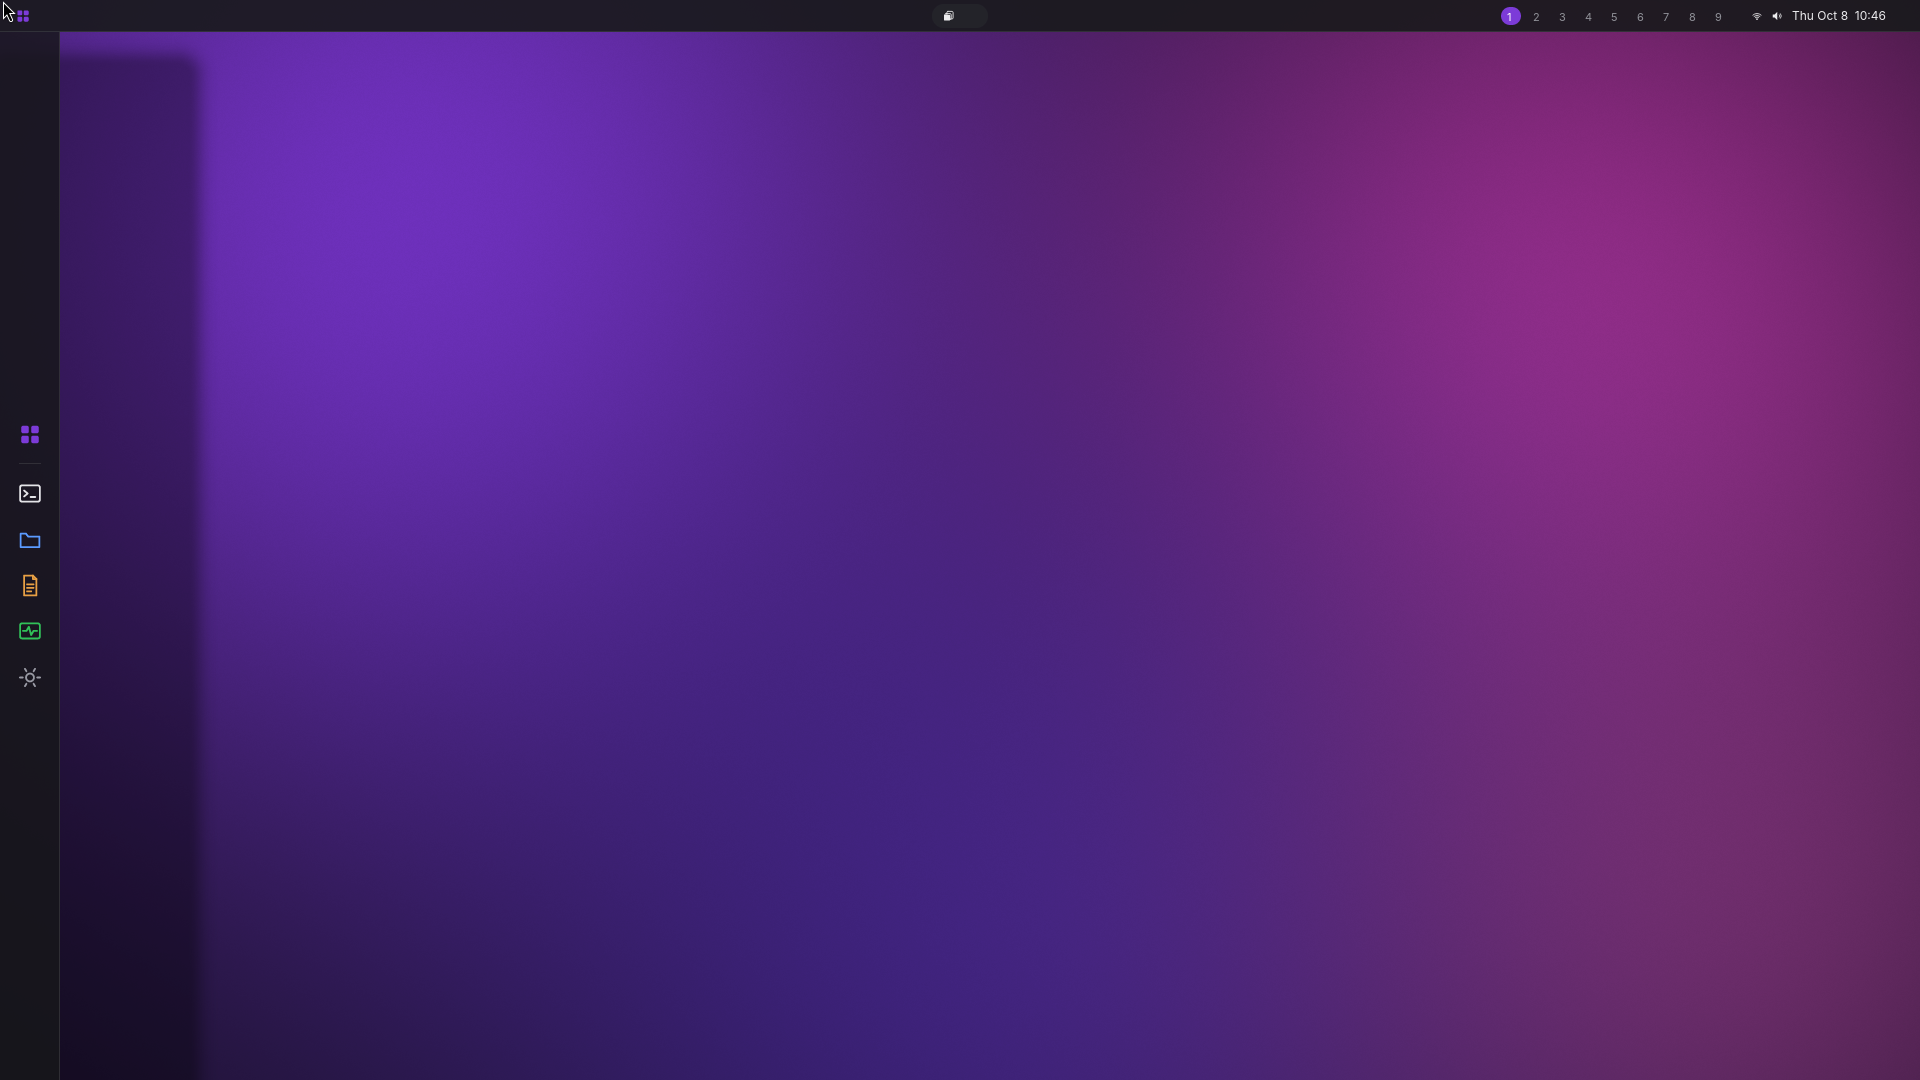
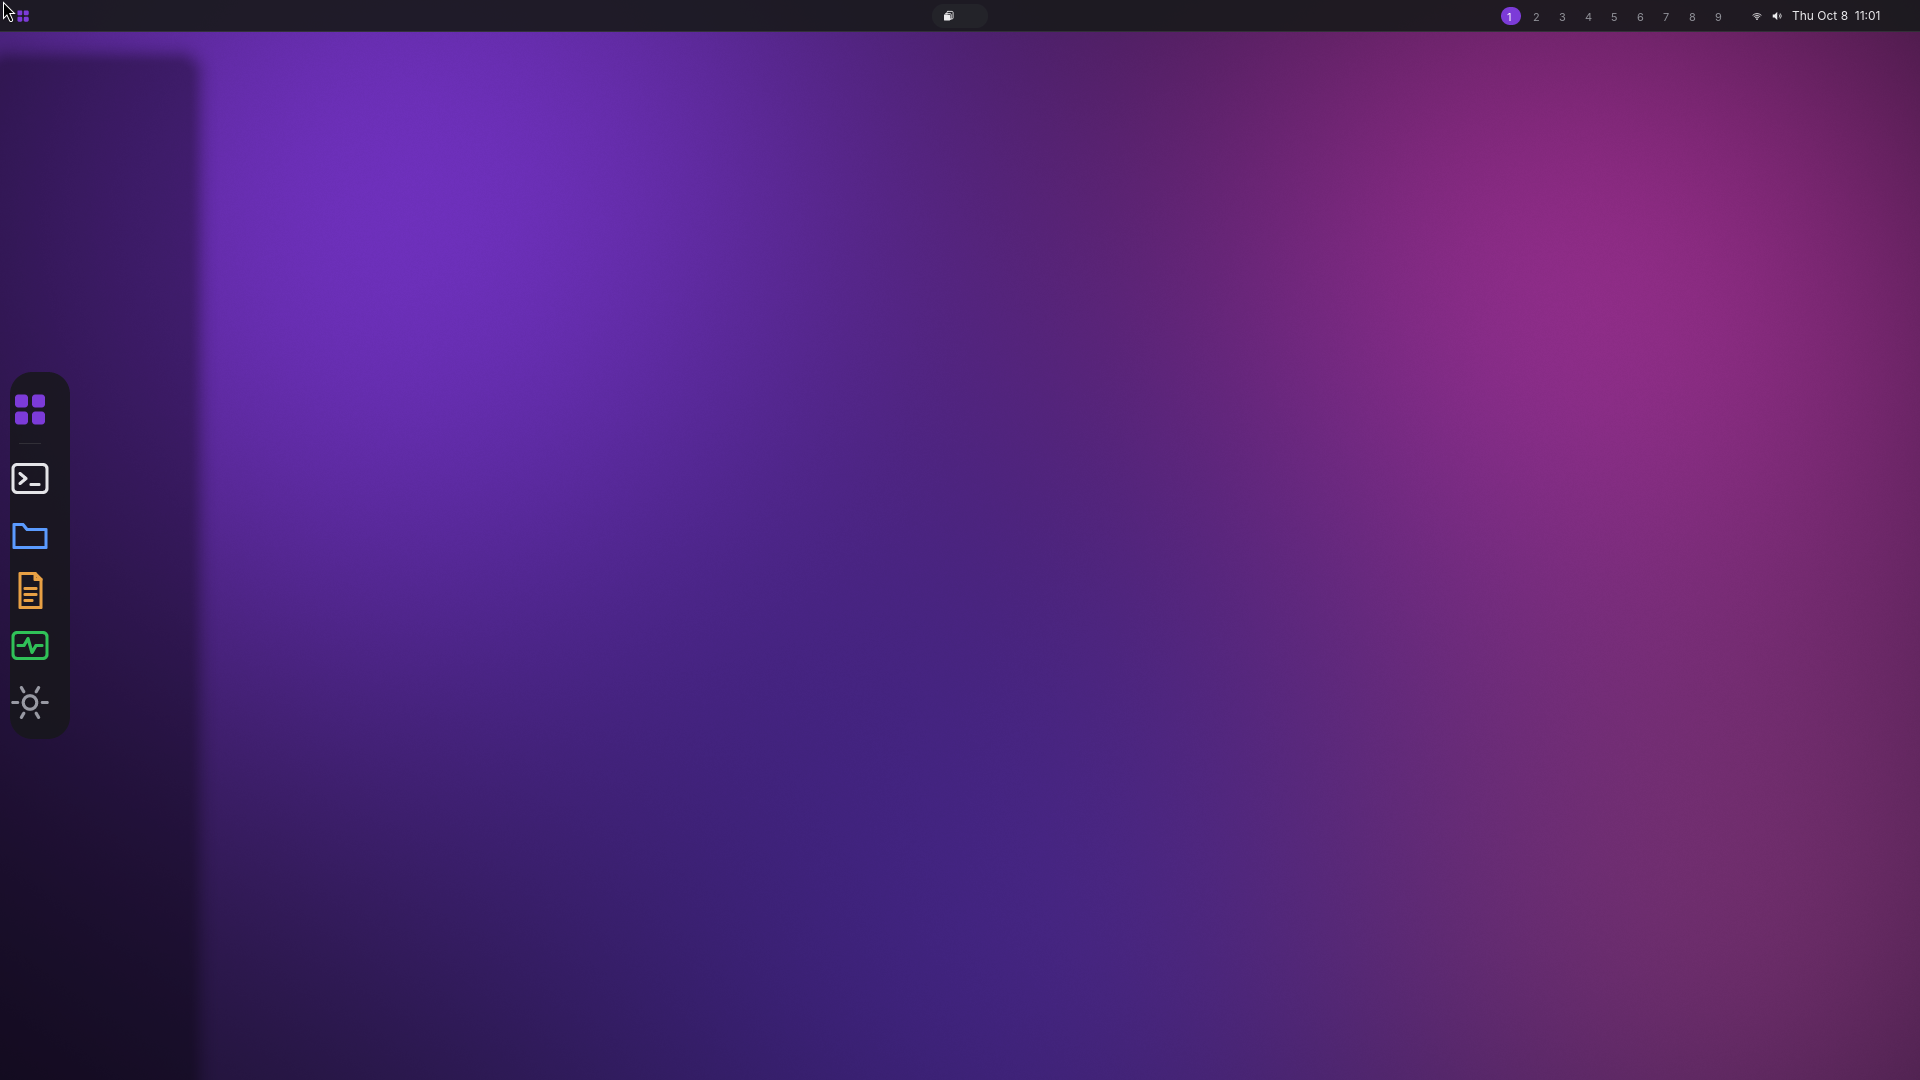
tests: blitz drive (bidirectional serial chardev); docs: 8-shot blitz evidence @1920x1080 + findings

Changed region(s): [[0.0, 0.0306, 0.0625, 0.7333]]

diff --git a/cosmosos/docs/STATUS.md b/cosmosos/docs/STATUS.md
@@ -179,3 +179,11 @@ ISO+Calamares.
 `provision/host-deps.sh`) → `dist/cosmos.raw`; `run.sh` for KVM/TCG boot
 (`GUEST_RES` for resolution, OVMF for the GPT/UEFI image).
 Rust workspace compiles via `cargo check --workspace` in `cosmos/`.
+
+## Visual blitz evidence (5489618)
+8-shot 1920x1080 pass in docs/evidence/blitz-0*.png — violet wallpaper
++ wallpaper-accent rgb=[124,59,216], glass shell, dock floating pill,
+Start+widgets, Settings CC, agentd approval card (human summary), ocean
+accent rgb=[30,142,216]. Findings: Top-layer surfaces (menubar tray,
+card buttons, island pill) still take no pointer input; appearance=light
+flips shell chrome only — app bodies + wallpaper stay dark.

diff --git a/cosmosos/docs/budgets.md b/cosmosos/docs/budgets.md
@@ -11,3 +11,7 @@ QEMU -m 2G -smp 2, GUEST_RES=1024x768, OVMF).
 | swap | zram0 1006076 kB free of 1006076 kB |
 
 Raw evidence: work/measure/serial.log (==PAPERCUT-CHECK== block).
+
+Visual-blitz boot @5489618 (1920x1080, files+editor+settings+monitor open):
+MemTotal 2014560 kB, MemAvailable 1454524 kB (~546 MiB unavailable
+incl. apps; ~340 MiB headless-idle delta vs the 1024x768 measure).
